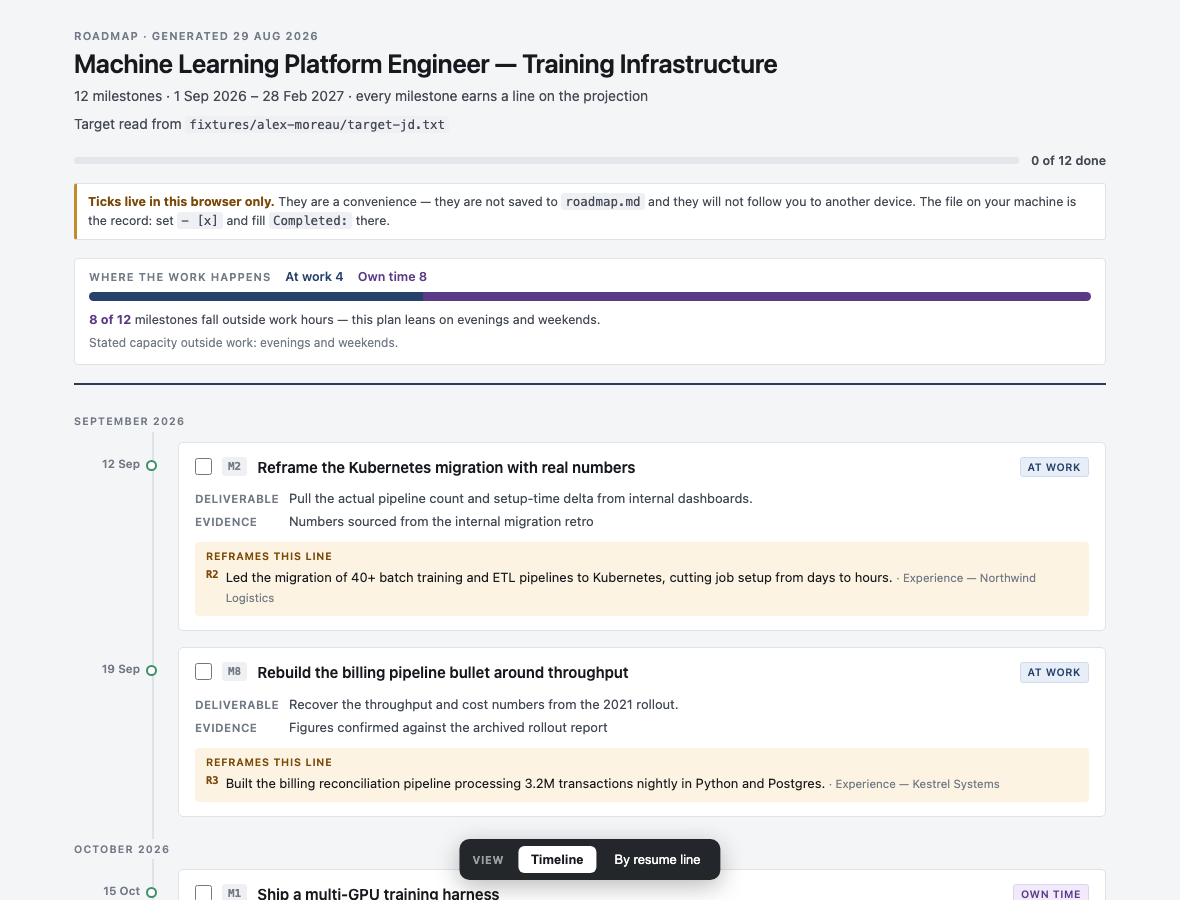
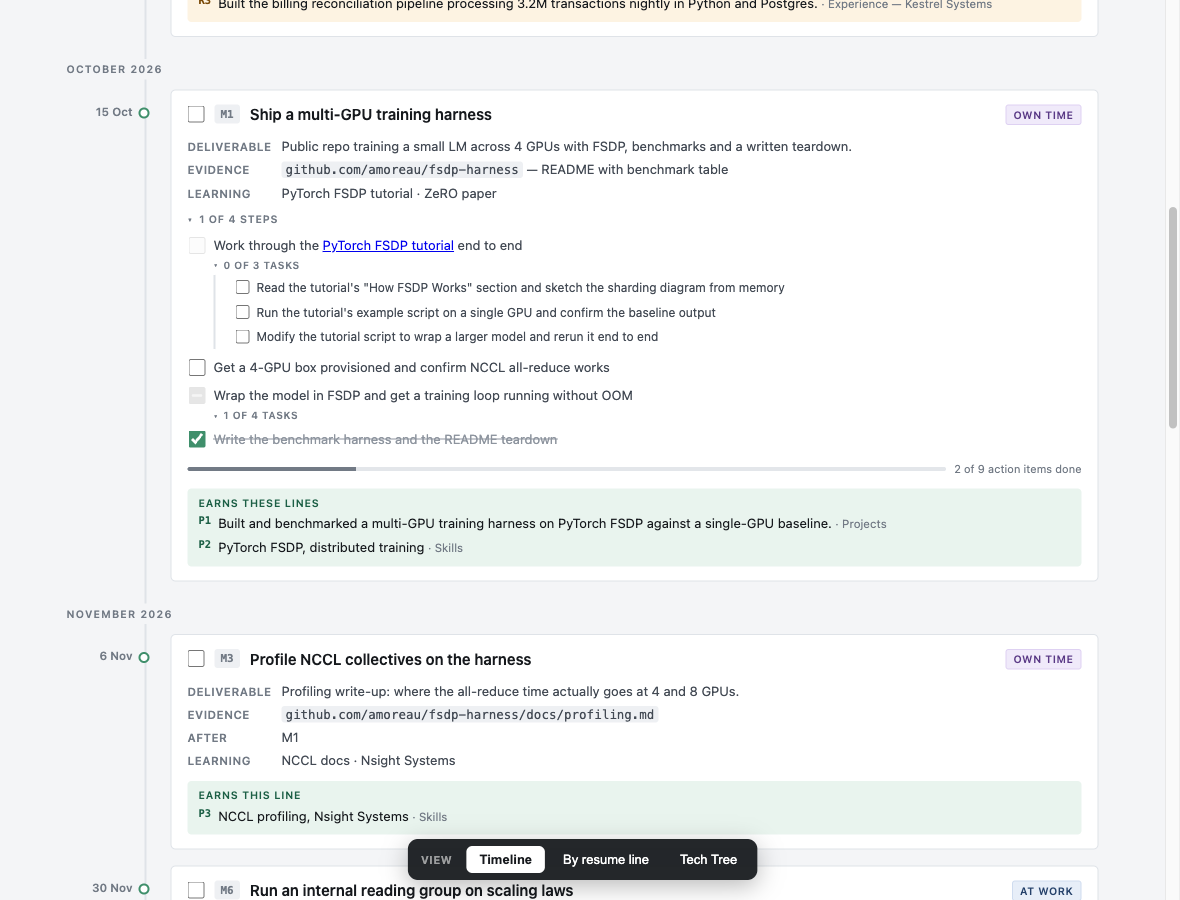
docs: refresh README for the Steps/Task checklist and Tech Tree view
Add a real badge row (CI, license, Node version, zero dependencies), surface
the core rule as a one-line hook before the fold instead of only after it,
and describe the roadmap page's new capabilities — the nested Steps→Task
checklist with cascading progress, and the three switchable views including
the new Tech Tree. Regenerate the roadmap screenshot (now shows a milestone
with Steps/Tasks and the supplementary progress bar) and add a new Tech Tree
screenshot, both rendered from the existing fictional Alex Moreau fixture.

diff --git a/README.md b/README.md
@@ -6,6 +6,17 @@
 </p>
 
 <p align="center">
+  <a href="https://github.com/voidforall/your-next-resume/actions/workflows/ci.yml"><img src="https://github.com/voidforall/your-next-resume/actions/workflows/ci.yml/badge.svg" alt="CI"></a>
+  <a href="LICENSE"><img src="https://img.shields.io/badge/license-MIT-blue.svg" alt="MIT license"></a>
+  <img src="https://img.shields.io/badge/node-%3E%3D18-339933?logo=node.js&logoColor=white" alt="Node >= 18">
+  <img src="https://img.shields.io/badge/dependencies-zero-lightgrey" alt="Zero dependencies">
+</p>
+
+**No line appears on the projection unless a milestone earns it.** Every green line traces to a
+dated milestone that names the evidence which would prove it — a repo, a merged PR, a design doc
+your team reviewed. If nothing earns a line, it's deleted, not softened.
+
+<p align="center">
   <img src="docs/media/diptych.png" alt="Left: today's resume. Right: the projection, with reframed lines in amber and projected lines in green, under a stamp reading PROJECTED STATE · 28 FEB 2027 — EARNED ONLY IF THE ROADMAP IS COMPLETED." width="100%">
 </p>
 
@@ -36,10 +47,26 @@ Seven files in `./your-next-resume/`:
 | `roadmap.md` · `projection.md` | the source. Yours to edit; re-render any time |
 
 <p align="center">
-  <img src="docs/media/roadmap.png" alt="The roadmap page: a dated timeline of milestones, each showing its deliverable, the evidence that would prove it, and the resume line it earns." width="100%">
+  <img src="docs/media/roadmap.png" alt="A milestone card: Deliverable, Evidence and Learning fields, a Steps checklist with a nested, collapsed Tasks sub-list under each step, and a supplementary progress bar reading 2 of 9 action items done, distinct from the green Earns block below it." width="100%">
 </p>
 
 Each milestone says what to build, by when, what evidence proves it, and which resume line it buys. It is labelled **At work** or **Own time**, and the page shows the split — because a plan that quietly assumes your evenings is a plan for people who have evenings.
+
+A milestone breaks down into **Steps**, and a Step can break down further into granular,
+roughly-hour-sized **Tasks** — collapsed by default so the page stays scannable, open the moment
+you're ready to work through one. Tick a task and the progress bar above it moves, its Step's
+checkbox updates (checked, or a dash if partway through), and the roadmap-wide tally at the top of
+the page moves too — three levels, one tick, always in gray or `--accent`, never the green that
+means a milestone is actually, Evidence-backed done.
+
+The page ships three views, switchable at the bottom: a dated **Timeline**, the same plan **by
+resume line** (which bullet does this milestone buy, and why), and a game-style **Tech Tree** —
+milestones laid out by dependency, lit up or dimmed as you click through what a milestone needs and
+what it unlocks, dashed and grayed out until every prerequisite is actually done.
+
+<p align="center">
+  <img src="docs/media/tech-tree.png" alt="The Tech Tree view: milestones as connected nodes, one selected and highlighted along its full dependency chain while unrelated nodes dim, with a detail panel on the right showing that milestone's Deliverable, Evidence and Earns block." width="100%">
+</p>
 
 ## When the target is out of reach
 
@@ -71,6 +98,12 @@ Node 18+ and Chrome, Chromium or Edge for the PDFs. No API keys, no account, no 
 
 ## How it's built
 
-`skills/your-next-resume/` is the skill. [`CONTEXT.md`](CONTEXT.md) is the vocabulary, [`docs/adr/`](docs/adr/) is every decision and why it was made, and [`evals/`](evals/) holds the cases it was tested against — including a no-skill baseline.
+`skills/your-next-resume/` is the skill. [`CONTEXT.md`](CONTEXT.md) is the vocabulary,
+[`docs/adr/`](docs/adr/) is every decision and why it was made — 15 so far, from the projection
+contract itself to the Tech Tree view and the nested Task checklist — and [`evals/`](evals/) holds
+the cases it was tested against, including a no-skill baseline.
+
+Zero runtime dependencies. The roadmap page is one self-contained HTML file — no build step, no
+CDN, opens from `file://` forever.
 
 MIT.
